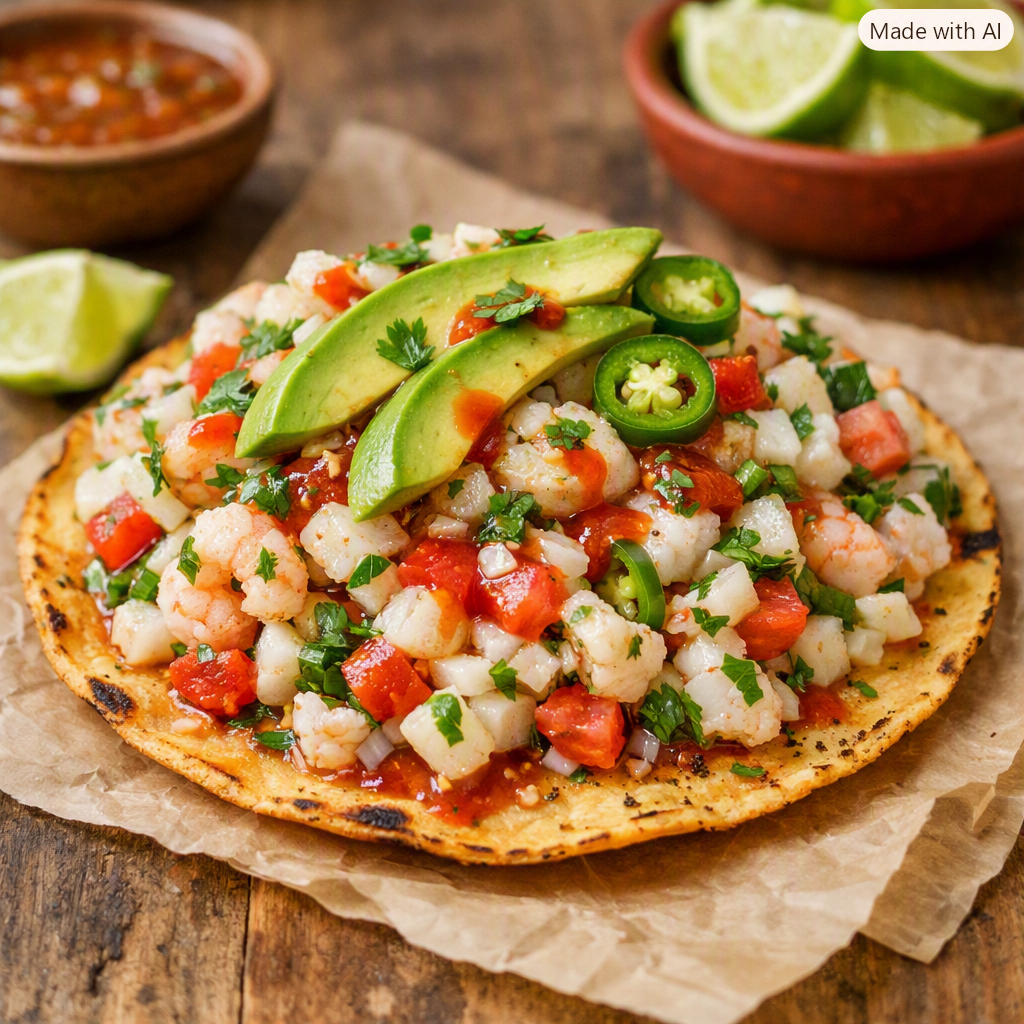
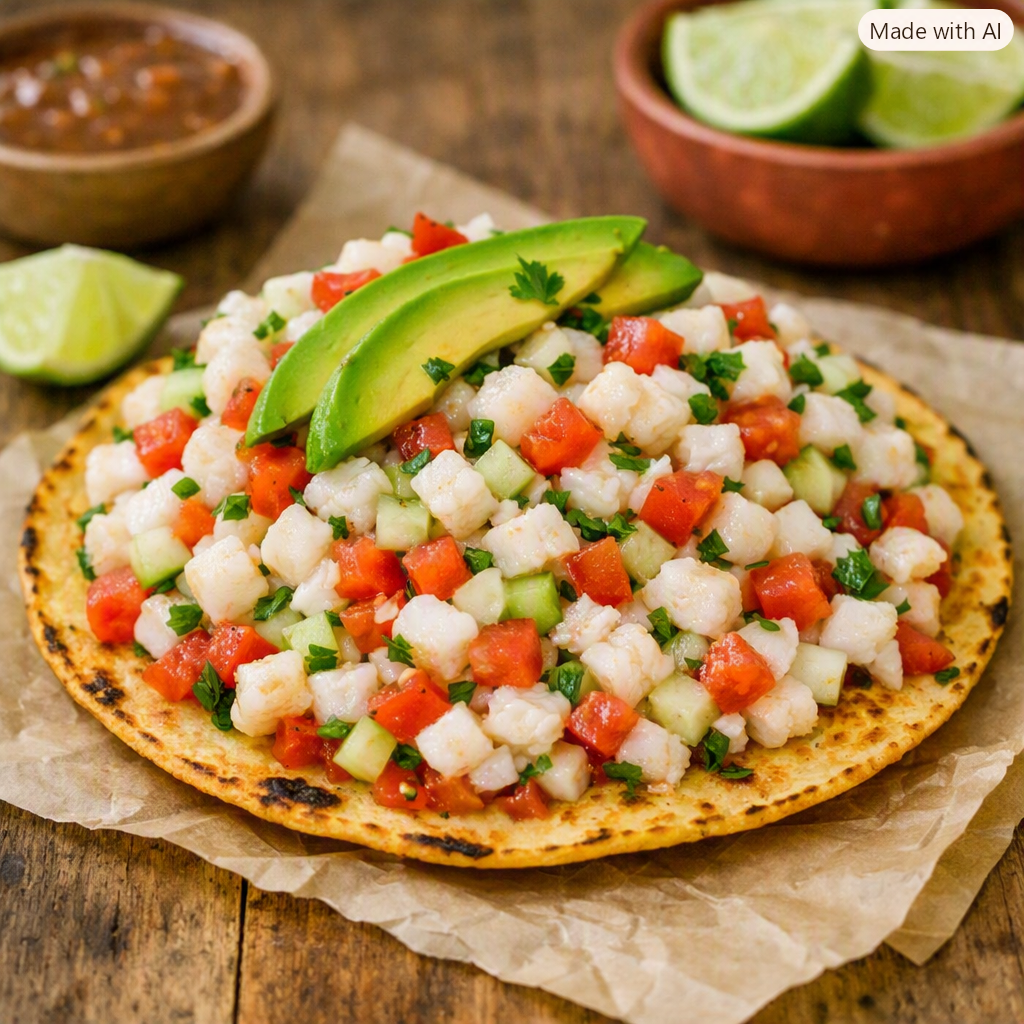
nuevo número y nuevas imagenes

diff --git a/index.html b/index.html
@@ -18,7 +18,7 @@
         <a href="#menu">Menú</a>
         <a href="#contacto">Contacto</a>
         <a href="blog.html">Noticias</a>
-        <a href="https://wa.me/+524521582550?text=Hola%2C%20quiero%20hacer%20un%20pedido%20%F0%9F%A6%9E" target="_blank" rel="noopener" class="nav-whatsapp">Pedir por WhatsApp</a>
+        <a href="https://wa.me/+523351641318?text=Hola%2C%20quiero%20hacer%20un%20pedido%20%F0%9F%A6%9E" target="_blank" rel="noopener" class="nav-whatsapp">Pedir por WhatsApp</a>
       </nav>
       <button class="hamburger" id="hamburger" aria-label="Abrir menú">&#9776;</button>
     </div>
@@ -26,7 +26,7 @@
       <a href="#menu" class="mobile-link">Menú</a>
       <a href="#contacto" class="mobile-link">Contacto</a>
       <a href="blog.html" class="mobile-link">Noticias</a>
-      <a href="https://wa.me/+524521582550?text=Hola%2C%20quiero%20hacer%20un%20pedido%20%F0%9F%A6%9E" target="_blank" rel="noopener" class="mobile-link mobile-wa">Pedir por WhatsApp</a>
+      <a href="https://wa.me/+523351641318?text=Hola%2C%20quiero%20hacer%20un%20pedido%20%F0%9F%A6%9E" target="_blank" rel="noopener" class="mobile-link mobile-wa">Pedir por WhatsApp</a>
     </div>
   </header>
 
@@ -37,7 +37,7 @@
       <p>Ceviches y aguachiles preparados al momento con los mariscos más frescos de la región.</p>
       <div class="hero-ctas">
         <a href="#menu" class="btn-primary">Ver el Menú</a>
-        <a href="https://wa.me/+524521582550?text=Hola%2C%20quiero%20hacer%20un%20pedido%20%F0%9F%A6%9E" target="_blank" rel="noopener" class="btn-wa">
+        <a href="https://wa.me/+523351641318?text=Hola%2C%20quiero%20hacer%20un%20pedido%20%F0%9F%A6%9E" target="_blank" rel="noopener" class="btn-wa">
           <svg viewBox="0 0 24 24" fill="currentColor" width="20" height="20"><path d="M17.472 14.382c-.297-.149-1.758-.867-2.03-.967-.273-.099-.471-.148-.67.15-.197.297-.767.966-.94 1.164-.173.199-.347.223-.644.075-.297-.15-1.255-.463-2.39-1.475-.883-.788-1.48-1.761-1.653-2.059-.173-.297-.018-.458.13-.606.134-.133.298-.347.446-.52.149-.174.198-.298.298-.497.099-.198.05-.371-.025-.52-.075-.149-.669-1.612-.916-2.207-.242-.579-.487-.5-.669-.51-.173-.008-.371-.01-.57-.01-.198 0-.52.074-.792.372-.272.297-1.04 1.016-1.04 2.479 0 1.462 1.065 2.875 1.213 3.074.149.198 2.096 3.2 5.077 4.487.709.306 1.262.489 1.694.625.712.227 1.36.195 1.871.118.571-.085 1.758-.719 2.006-1.413.248-.694.248-1.289.173-1.413-.074-.124-.272-.198-.57-.347z"/><path d="M12 0C5.373 0 0 5.373 0 12c0 2.126.556 4.121 1.527 5.849L0 24l6.335-1.502A11.935 11.935 0 0012 24c6.627 0 12-5.373 12-12S18.627 0 12 0zm0 21.818a9.795 9.795 0 01-5.003-1.371l-.357-.214-3.758.891.944-3.658-.235-.376A9.794 9.794 0 012.182 12C2.182 6.57 6.57 2.182 12 2.182S21.818 6.57 21.818 12 17.43 21.818 12 21.818z"/></svg>
           Ordenar ahora
         </a>
@@ -78,16 +78,6 @@
               <span class="badge-hot">🔥 El más pedido</span>
             </div>
             <p>Camarones frescos en jugo de limón con jitomate, cebolla, cilantro y chile.</p>
-          </div>
-        </div>
-        <div class="menu-card" data-product="Ceviche Mixto">
-          <img class="card-img" src="assets/ceviche-mixto.png" alt="Ceviche Mixto">
-          <div class="card-emoji">🦑</div>
-          <div class="card-body">
-            <div class="card-top">
-              <h4>Ceviche Mixto</h4>
-            </div>
-            <p>Mezcla de camarón, pulpo y pescado marinados al estilo de la casa.</p>
           </div>
         </div>
       </div>
@@ -132,20 +122,10 @@
       </div>
     </div>
 
-    <!-- Categoría: Cocteles y Tostadas -->
+    <!-- Categoría: Tostadas -->
     <div class="menu-category">
-      <h3 class="category-title">Cocteles & Tostadas</h3>
+      <h3 class="category-title">Tostadas</h3>
       <div class="menu-grid">
-        <div class="menu-card" data-product="Coctel de Camarón">
-          <img class="card-img" src="assets/coctel-camaron.png" alt="Coctel de Camarón">
-          <div class="card-emoji">🥂</div>
-          <div class="card-body">
-            <div class="card-top">
-              <h4>Coctel de Camarón</h4>
-            </div>
-            <p>Camarones en salsa catsup con aguacate, pepino, cebolla y jugo de limón.</p>
-          </div>
-        </div>
         <div class="menu-card" data-product="Tostadas de Ceviche">
           <img class="card-img" src="assets/tostada-ceviche.png" alt="Tostadas de Ceviche">
           <div class="card-emoji">🍞</div>
@@ -167,12 +147,23 @@
             <p>Pulpo al limón sobre tostada con guacamole, cebolla morada y cilantro.</p>
           </div>
         </div>
+        <div class="menu-card" data-product="Tostadas de Camarón">
+          <img class="card-img" src="assets/tostada-camaron.png" alt="Tostadas de Camarón">
+          <div class="card-emoji">🦐</div>
+          <div class="card-body">
+            <div class="card-top">
+              <h4>Tostadas de Camarón</h4>
+              <span class="badge-new">✨ Especial</span>
+            </div>
+            <p>Camarón al limón sobre tostada con guacamole, cebolla morada y cilantro.</p>
+          </div>
+        </div>
       </div>
     </div>
 
     <div class="menu-cta">
       <p>¿Ya sabes lo que quieres? 👇</p>
-      <a href="https://wa.me/+524521582550?text=Hola%2C%20quiero%20hacer%20un%20pedido%20%F0%9F%A6%9E
+      <a href="https://wa.me/+523351641318?text=Hola%2C%20quiero%20hacer%20un%20pedido%20%F0%9F%A6%9E
 " target="_blank" rel="noopener" class="btn-primary btn-large">
         Hacer mi pedido por WhatsApp
       </a>
@@ -208,7 +199,7 @@
           <div class="contact-icon">📱</div>
           <h4>WhatsApp</h4>
           <p>¡Haz tu pedido directo<br>desde aquí!</p>
-          <a href="https://wa.me/+524521582550?text=Hola%2C%20quiero%20hacer%20un%20pedido%20%F0%9F%A6%9E" target="_blank" rel="noopener" class="btn-wa btn-wa-sm">Escribir ahora</a>
+          <a href="https://wa.me/+523351641318?text=Hola%2C%20quiero%20hacer%20un%20pedido%20%F0%9F%A6%9E" target="_blank" rel="noopener" class="btn-wa btn-wa-sm">Escribir ahora</a>
         </div>
       </div>
     </div>
@@ -220,7 +211,7 @@
     <p class="footer-credit">Hecho por Rodian AI</p>
   </footer>
 
-  <a href="https://wa.me/+524521582550?text=Hola%2C%20quiero%20hacer%20un%20pedido%20%F0%9F%A6%9E" target="_blank" rel="noopener" class="float-wa" aria-label="Pedir por WhatsApp">
+  <a href="https://wa.me/+523351641318?text=Hola%2C%20quiero%20hacer%20un%20pedido%20%F0%9F%A6%9E" target="_blank" rel="noopener" class="float-wa" aria-label="Pedir por WhatsApp">
     <svg viewBox="0 0 24 24" fill="currentColor" width="28" height="28"><path d="M17.472 14.382c-.297-.149-1.758-.867-2.03-.967-.273-.099-.471-.148-.67.15-.197.297-.767.966-.94 1.164-.173.199-.347.223-.644.075-.297-.15-1.255-.463-2.39-1.475-.883-.788-1.48-1.761-1.653-2.059-.173-.297-.018-.458.13-.606.134-.133.298-.347.446-.52.149-.174.198-.298.298-.497.099-.198.05-.371-.025-.52-.075-.149-.669-1.612-.916-2.207-.242-.579-.487-.5-.669-.51-.173-.008-.371-.01-.57-.01-.198 0-.52.074-.792.372-.272.297-1.04 1.016-1.04 2.479 0 1.462 1.065 2.875 1.213 3.074.149.198 2.096 3.2 5.077 4.487.709.306 1.262.489 1.694.625.712.227 1.36.195 1.871.118.571-.085 1.758-.719 2.006-1.413.248-.694.248-1.289.173-1.413-.074-.124-.272-.198-.57-.347z"/><path d="M12 0C5.373 0 0 5.373 0 12c0 2.126.556 4.121 1.527 5.849L0 24l6.335-1.502A11.935 11.935 0 0012 24c6.627 0 12-5.373 12-12S18.627 0 12 0zm0 21.818a9.795 9.795 0 01-5.003-1.371l-.357-.214-3.758.891.944-3.658-.235-.376A9.794 9.794 0 012.182 12C2.182 6.57 6.57 2.182 12 2.182S21.818 6.57 21.818 12 17.43 21.818 12 21.818z"/></svg>
   </a>
 

diff --git a/blog.html b/blog.html
@@ -19,7 +19,7 @@
         <a href="index.html#menu">Menú</a>
         <a href="index.html#contacto">Contacto</a>
         <a href="blog.html" class="nav-active">Noticias</a>
-        <a href="https://wa.me/+524521582550?text=Hola%2C%20quiero%20hacer%20un%20pedido%20%F0%9F%A6%9E" target="_blank" rel="noopener" class="nav-whatsapp">Pedir por WhatsApp</a>
+        <a href="https://wa.me/+523351641318?text=Hola%2C%20quiero%20hacer%20un%20pedido%20%F0%9F%A6%9E" target="_blank" rel="noopener" class="nav-whatsapp">Pedir por WhatsApp</a>
       </nav>
       <button class="hamburger" id="hamburger" aria-label="Abrir menú">&#9776;</button>
     </div>
@@ -27,7 +27,7 @@
       <a href="index.html#menu" class="mobile-link">Menú</a>
       <a href="index.html#contacto" class="mobile-link">Contacto</a>
       <a href="blog.html" class="mobile-link">Noticias</a>
-      <a href="https://wa.me/+524521582550?text=Hola%2C%20quiero%20hacer%20un%20pedido%20%F0%9F%A6%9E" target="_blank" rel="noopener" class="mobile-link mobile-wa">Pedir por WhatsApp</a>
+      <a href="https://wa.me/+523351641318?text=Hola%2C%20quiero%20hacer%20un%20pedido%20%F0%9F%A6%9E" target="_blank" rel="noopener" class="mobile-link mobile-wa">Pedir por WhatsApp</a>
     </div>
   </header>
 
@@ -56,7 +56,7 @@
           Ordena directamente por WhatsApp y obtén un <strong>10% de descuento</strong> en tu primer pedido.
           Solo menciona el código <strong>VICKAZ10</strong> al escribirnos.
         </p>
-        <a href="https://wa.me/+524521582550?text=Hola%2C%20quiero%20usar%20el%20código%20VICKAZ10" target="_blank" rel="noopener" class="btn-primary post-btn">
+        <a href="https://wa.me/+523351641318?text=Hola%2C%20quiero%20usar%20el%20código%20VICKAZ10" target="_blank" rel="noopener" class="btn-primary post-btn">
           Pedir con descuento
         </a>
       </article>
@@ -72,7 +72,7 @@
           a elegir más dos tostadas de pulpo o ceviche, todo por un precio especial.
           Solo sábados y domingos, sujeto a disponibilidad.
         </p>
-        <a href="https://wa.me/+524521582550?text=Hola%2C%20quiero%20el%20combo%20familiar%20🦞" target="_blank" rel="noopener" class="btn-wa post-btn">
+        <a href="https://wa.me/+523351641318?text=Hola%2C%20quiero%20el%20combo%20familiar%20🦞" target="_blank" rel="noopener" class="btn-wa post-btn">
           <svg viewBox="0 0 24 24" fill="currentColor" width="18" height="18"><path d="M17.472 14.382c-.297-.149-1.758-.867-2.03-.967-.273-.099-.471-.148-.67.15-.197.297-.767.966-.94 1.164-.173.199-.347.223-.644.075-.297-.15-1.255-.463-2.39-1.475-.883-.788-1.48-1.761-1.653-2.059-.173-.297-.018-.458.13-.606.134-.133.298-.347.446-.52.149-.174.198-.298.298-.497.099-.198.05-.371-.025-.52-.075-.149-.669-1.612-.916-2.207-.242-.579-.487-.5-.669-.51-.173-.008-.371-.01-.57-.01-.198 0-.52.074-.792.372-.272.297-1.04 1.016-1.04 2.479 0 1.462 1.065 2.875 1.213 3.074.149.198 2.096 3.2 5.077 4.487.709.306 1.262.489 1.694.625.712.227 1.36.195 1.871.118.571-.085 1.758-.719 2.006-1.413.248-.694.248-1.289.173-1.413-.074-.124-.272-.198-.57-.347z"/><path d="M12 0C5.373 0 0 5.373 0 12c0 2.126.556 4.121 1.527 5.849L0 24l6.335-1.502A11.935 11.935 0 0012 24c6.627 0 12-5.373 12-12S18.627 0 12 0zm0 21.818a9.795 9.795 0 01-5.003-1.371l-.357-.214-3.758.891.944-3.658-.235-.376A9.794 9.794 0 012.182 12C2.182 6.57 6.57 2.182 12 2.182S21.818 6.57 21.818 12 17.43 21.818 12 21.818z"/></svg>
           Pedir combo
         </a>
@@ -88,7 +88,7 @@
           ¿Tienes una reunión, cumpleaños o evento especial? Contáctanos con anticipación y
           preparamos una orden especial de ceviches y aguachiles para tu grupo.
         </p>
-        <a href="https://wa.me/+524521582550?text=Hola%2C%20quiero%20cotizar%20un%20pedido%20para%20evento" target="_blank" rel="noopener" class="btn-primary post-btn">
+        <a href="https://wa.me/+523351641318?text=Hola%2C%20quiero%20cotizar%20un%20pedido%20para%20evento" target="_blank" rel="noopener" class="btn-primary post-btn">
           Cotizar evento
         </a>
       </article>
@@ -137,7 +137,7 @@
     <p class="footer-credit">Hecho por Rodian AI</p>
   </footer>
 
-  <a href="https://wa.me/+524521582550?text=Hola%2C%20quiero%20hacer%20un%20pedido%20%F0%9F%A6%9E" target="_blank" rel="noopener" class="float-cart" aria-label="Pedir por WhatsApp" style="text-decoration:none;">
+  <a href="https://wa.me/+523351641318?text=Hola%2C%20quiero%20hacer%20un%20pedido%20%F0%9F%A6%9E" target="_blank" rel="noopener" class="float-cart" aria-label="Pedir por WhatsApp" style="text-decoration:none;">
     <svg viewBox="0 0 24 24" fill="currentColor" width="28" height="28"><path d="M17.472 14.382c-.297-.149-1.758-.867-2.03-.967-.273-.099-.471-.148-.67.15-.197.297-.767.966-.94 1.164-.173.199-.347.223-.644.075-.297-.15-1.255-.463-2.39-1.475-.883-.788-1.48-1.761-1.653-2.059-.173-.297-.018-.458.13-.606.134-.133.298-.347.446-.52.149-.174.198-.298.298-.497.099-.198.05-.371-.025-.52-.075-.149-.669-1.612-.916-2.207-.242-.579-.487-.5-.669-.51-.173-.008-.371-.01-.57-.01-.198 0-.52.074-.792.372-.272.297-1.04 1.016-1.04 2.479 0 1.462 1.065 2.875 1.213 3.074.149.198 2.096 3.2 5.077 4.487.709.306 1.262.489 1.694.625.712.227 1.36.195 1.871.118.571-.085 1.758-.719 2.006-1.413.248-.694.248-1.289.173-1.413-.074-.124-.272-.198-.57-.347z"/><path d="M12 0C5.373 0 0 5.373 0 12c0 2.126.556 4.121 1.527 5.849L0 24l6.335-1.502A11.935 11.935 0 0012 24c6.627 0 12-5.373 12-12S18.627 0 12 0zm0 21.818a9.795 9.795 0 01-5.003-1.371l-.357-.214-3.758.891.944-3.658-.235-.376A9.794 9.794 0 012.182 12C2.182 6.57 6.57 2.182 12 2.182S21.818 6.57 21.818 12 17.43 21.818 12 21.818z"/></svg>
   </a>
 
